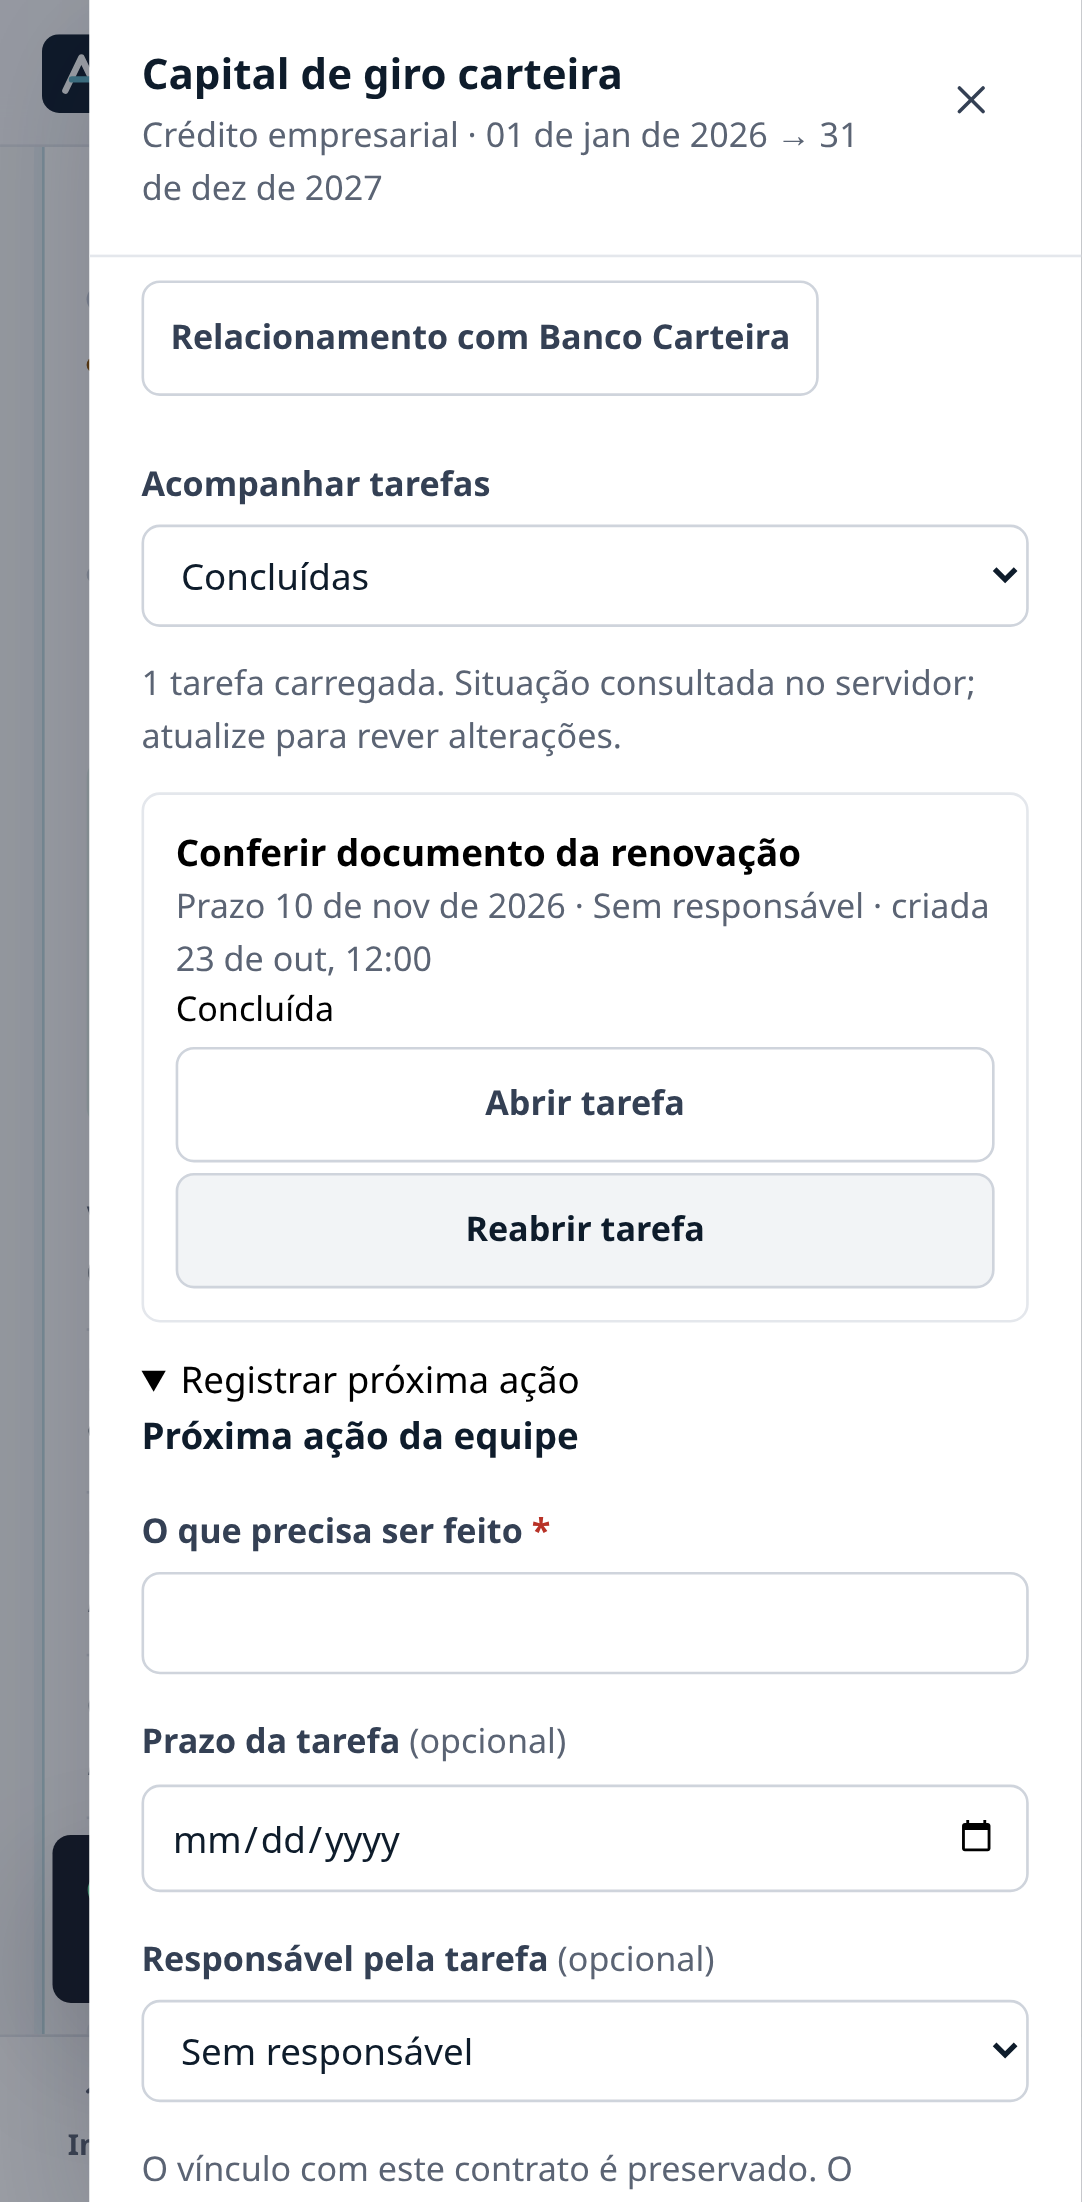
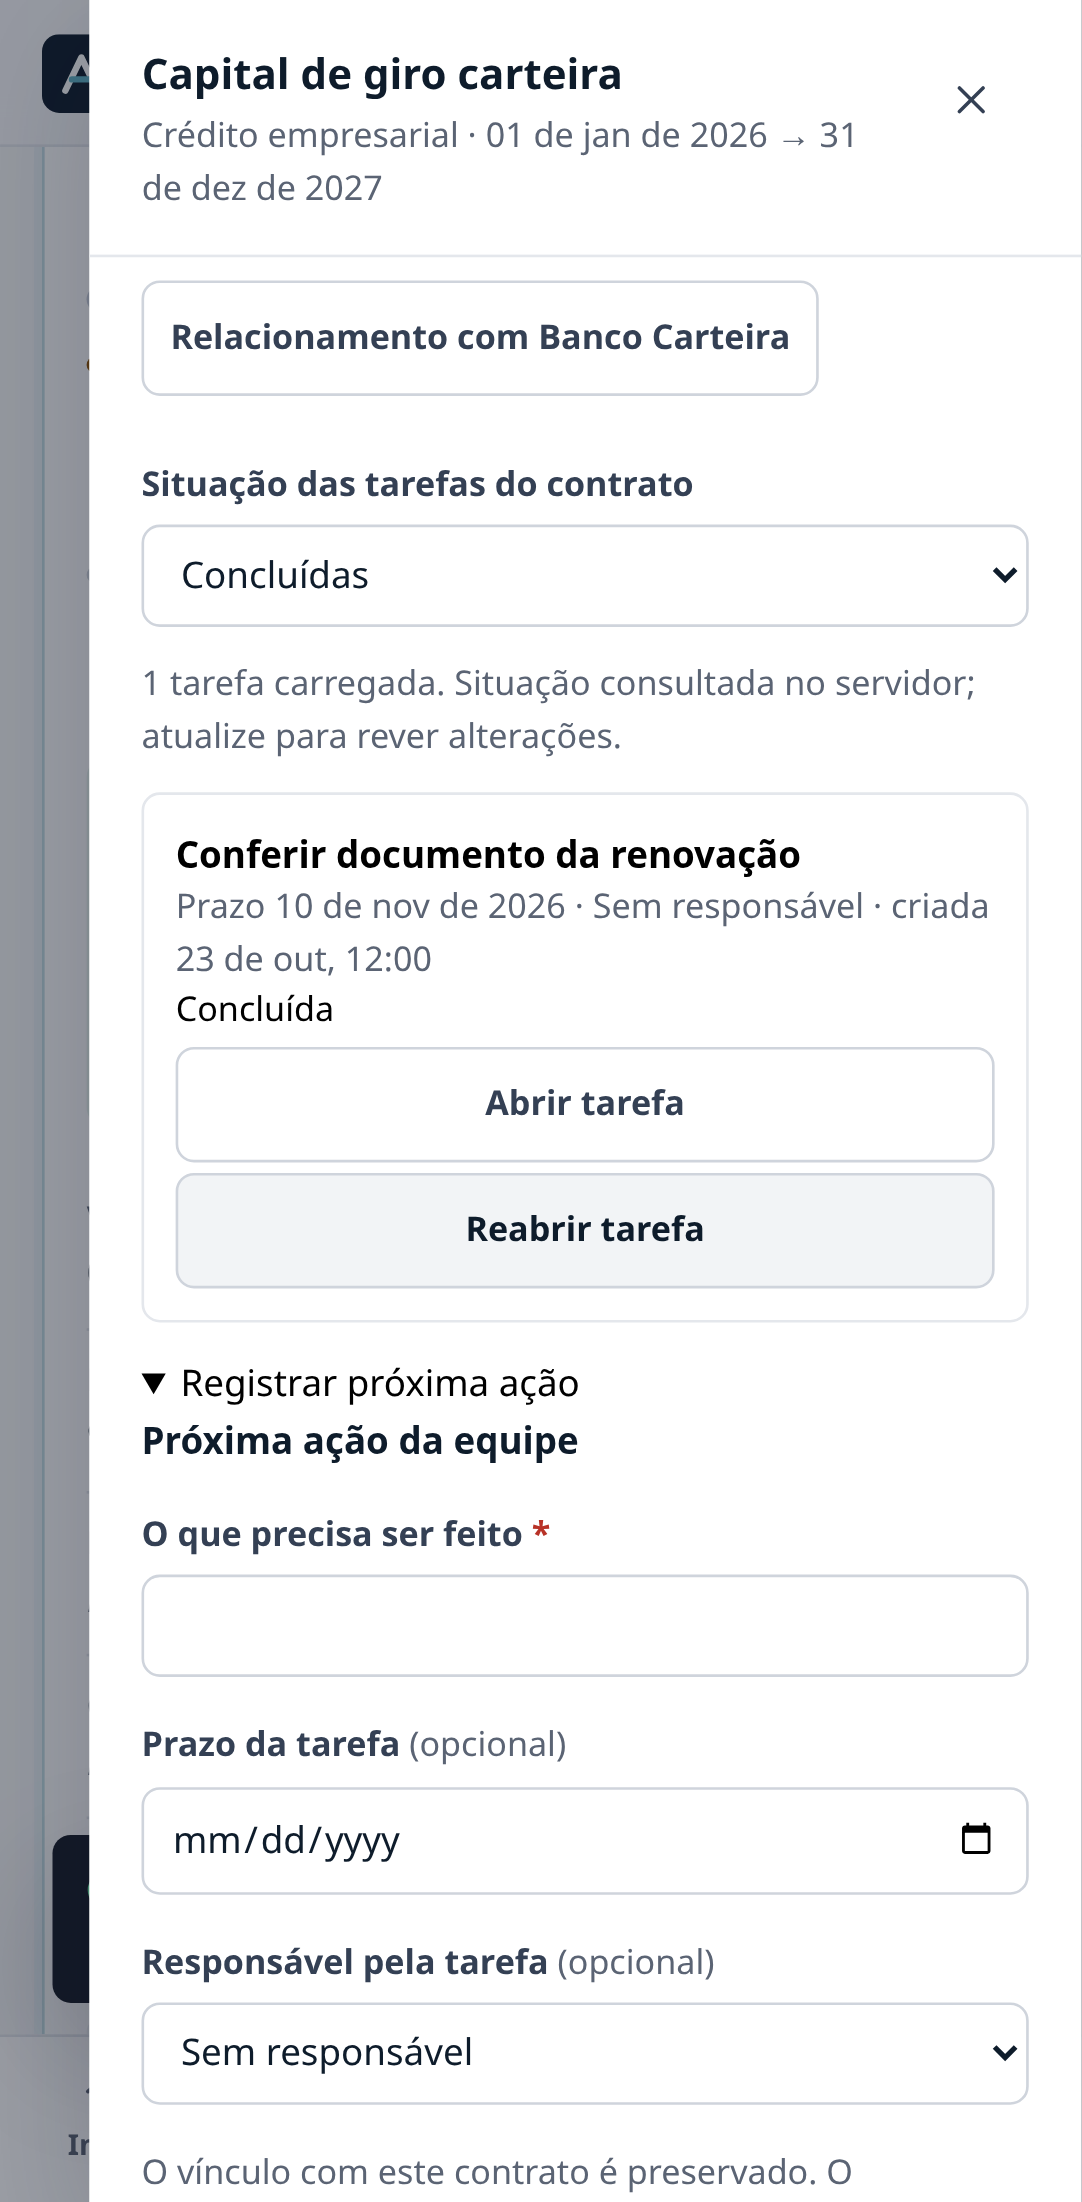
fix(a11y): align contextual task control labels

diff --git a/tests/e2e/finance-contracts.spec.js b/tests/e2e/finance-contracts.spec.js
@@ -1033,6 +1033,8 @@ test('trabalho no contrato conserva vínculo e mostra conclusão no histórico',
   await page.goto(`/finance/contracts.html?abrir=contrato#contract-${CONTRACT}`);
   const work=page.getByRole('region',{name:'Trabalho deste contrato'});
   await expect(work.getByRole('heading',{name:'Trabalho deste contrato'})).toBeVisible();
+  await expect(work.getByText('Situação das tarefas do contrato',{exact:true})).toBeVisible();
+  await expect(work.getByRole('combobox',{name:'Situação das tarefas do contrato',exact:true})).toBeVisible();
   await expect(work.getByRole('link',{name:'Relacionamento com Banco Carteira'})).toHaveAttribute('href',new RegExp(`provider_id=${PROVIDER}`));
   await work.getByText('Registrar próxima ação',{exact:true}).click();
   await work.getByLabel('O que precisa ser feito').fill('Conferir documento da renovação');
@@ -1041,14 +1043,14 @@ test('trabalho no contrato conserva vínculo e mostra conclusão no histórico',
   await expect(work).toContainText('Tarefa registrada neste contrato');
   expect(server.posts[0]).toMatchObject({related_type:'contract',related_id:CONTRACT,due_on:'2026-11-10'});
   expect(server.posts[0].idempotency_key).toMatch(/^[a-f0-9-]{36}$/);
-  await work.getByRole('button',{name:'Concluir: Conferir documento da renovação',exact:true}).click();
+  await work.getByRole('button',{name:'Concluir tarefa: Conferir documento da renovação',exact:true}).click();
   await expect(work).toContainText('Tarefa concluída.');
   await work.getByLabel('Situação das tarefas do contrato').selectOption('done');
   await expect(work.locator('.milestone-list')).toContainText('Conferir documento da renovação');
   await expect(work.locator('.milestone-list')).toContainText('Concluída');
   expect(server.patches).toHaveLength(1);
   if(process.env.LIFECYCLE_CAPTURE)await page.screenshot({path:`reports/lifecycle-${process.env.LIFECYCLE_CAPTURE}-${testInfo.project.name}.png`});
-  await work.getByRole('button',{name:'Reabrir: Conferir documento da renovação',exact:true}).click();
+  await work.getByRole('button',{name:'Reabrir tarefa: Conferir documento da renovação',exact:true}).click();
   await work.getByLabel('Situação das tarefas do contrato').selectOption('open');
   await expect(work.locator('.milestone-list')).toContainText('Conferir documento da renovação');
   await noHorizontalOverflow(page);

diff --git a/finance/src/views/contract-work.js b/finance/src/views/contract-work.js
@@ -19,7 +19,7 @@ export function contractWork(ctx, contract) {
     el('div',{class:'toolbar'},[
       el('a',{class:'btn btn-sm btn-secondary',href:ctx.href(`/finance/providers.html?provider_id=${encodeURIComponent(contract.provider_id)}`),text:`Relacionamento com ${contract.provider_name || 'a instituição'}`}),
       contract.source_rfq ? el('a',{class:'btn btn-sm btn-secondary',href:ctx.href(`/finance/rfq.html?id=${encodeURIComponent(contract.source_rfq.id)}`),text:`Solicitação de origem: ${contract.source_rfq.title}`}) : null
-    ]),field({label:'Acompanhar tarefas',control:filter}),notice,list,more);
+    ]),field({label:'Situação das tarefas do contrato',control:filter}),notice,list,more);
   filter.addEventListener('change',()=>load());
   function render() {
     list.replaceChildren(rows.length ? el('ul',{class:'milestone-list'},rows.map(task=>el('li',{class:'milestone-row'},[
@@ -29,7 +29,7 @@ export function contractWork(ctx, contract) {
         el('span',{class:'small',text:{open:'Pendente',done:'Concluída',cancelled:'Cancelada'}[task.status] || 'Situação indisponível'})
       ]),
       el('a',{class:'btn btn-sm btn-secondary',href:ctx.href(`/finance/tasks.html#task-${task.id}`),text:'Abrir tarefa'}),
-      edit && task.status !== 'cancelled' ? button(task.status==='open'?'Concluir tarefa':'Reabrir tarefa',{size:'sm',attrs:{'aria-label':`${task.status==='open'?'Concluir':'Reabrir'}: ${task.title}`},onClick:event=>change(task,event.currentTarget)}) : null
+      edit && task.status !== 'cancelled' ? button(task.status==='open'?'Concluir tarefa':'Reabrir tarefa',{size:'sm',attrs:{'aria-label':`${task.status==='open'?'Concluir tarefa':'Reabrir tarefa'}: ${task.title}`},onClick:event=>change(task,event.currentTarget)}) : null
     ]))) : el('p',{class:'muted',text:'Nenhuma tarefa nesta situação para este contrato.'}));
     more.hidden=!cursor;
   }

diff --git a/docs/evidence/lifecycle-actions-2026-10-23.md b/docs/evidence/lifecycle-actions-2026-10-23.md
@@ -104,3 +104,5 @@ conta como PASS. Não houve rerun ou push de CI para experimentar a Vercel.
   ensaiar a estação definitiva com o SHA aprovado antes de 28/10.
 - Mudança futura da main exige reavaliar publicação e estação. Esta PR não é
   prova de publicação, M3 hospedado ou Production; quatro gates não autorizam merge.
+
+Revisão de acessibilidade: nomes visíveis e acessíveis do filtro e das ações de tarefa foram alinhados; 18 E2E desktop/mobile, build, design e bundle passaram novamente. Este ajuste motivou um segundo push corretivo; os quatro gates continuam obrigatórios no novo HEAD. Capturas posteriores foram atualizadas.
